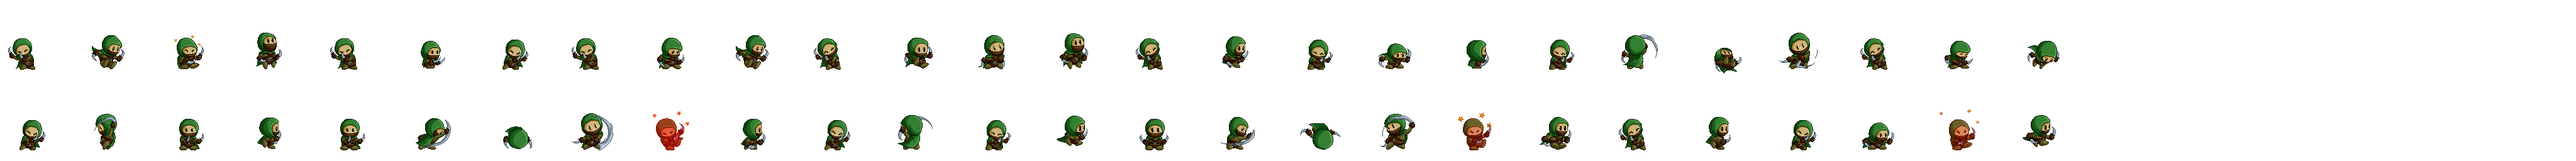
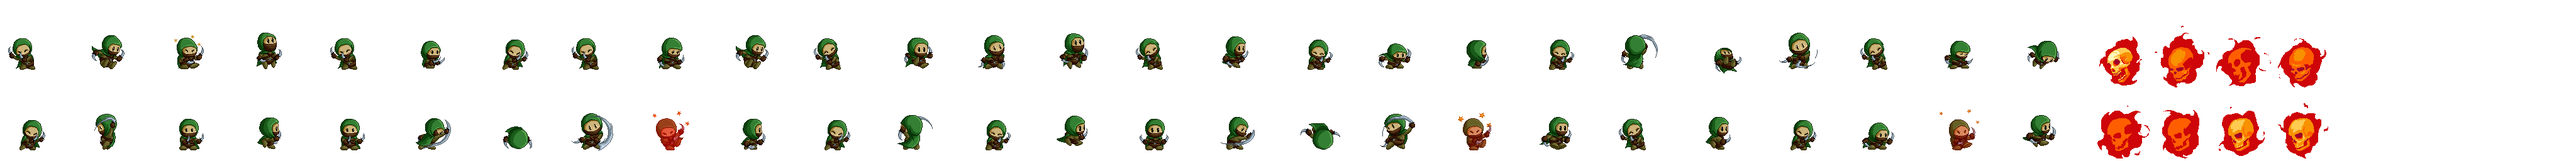
1. Added Enemies 2. Methods for Collision Detection 3. Able to detect collision between Enemy and Player 4. Able to detect collision between Enemy and Ground 5. Able to move Enemies on the ground

Changed region(s): [[0.8125, 0.6875, 0.9062, 0.9688], [0.8125, 0.2188, 0.9062, 0.5312]]

diff --git a/assets/level1/skull_enemy.tsx b/assets/level1/skull_enemy.tsx
@@ -1,0 +1,4 @@
+<?xml version="1.0" encoding="UTF-8"?>
+<tileset version="1.10" tiledversion="1.10.1" name="skull_enemy" tilewidth="96" tileheight="112" tilecount="8" columns="8">
+ <image source="environment/enemies/fire_skull.png" width="768" height="112"/>
+</tileset>

diff --git a/core/src/com/sid/characters/Player.java b/core/src/com/sid/characters/Player.java
@@ -6,6 +6,7 @@ import com.badlogic.gdx.graphics.g2d.TextureRegion;
 import com.badlogic.gdx.math.Vector2;
 import com.badlogic.gdx.physics.box2d.*;
 import com.badlogic.gdx.utils.Array;
+import com.sid.constants.CharacterBits;
 import com.sid.constants.GameConstants;
 import com.sid.screens.StartScreen;
 
@@ -16,14 +17,14 @@ public class Player extends Sprite {
     public World world;
     public Body body;
 
-    private Animation<TextureRegion> playerRun, playerJump, playerStand;
+    private Animation<TextureRegion> playerRun, playerJump, playerStand, playerAttacking;
 
     private float stateTimer;
     private boolean isRunningRight;
 
-    public Player(World world, StartScreen screen) {
+    public Player(StartScreen screen) {
         super(screen.getAtlas().findRegion("idle"));
-        this.world = world;
+        this.world = screen.getWorld();
 
         currState = State.STANDING;
         previousState = State.STANDING;
@@ -33,21 +34,25 @@ public class Player extends Sprite {
         playerRun = new Animation(0.1f, screen.getAtlas().findRegions("run"));
         playerJump = new Animation(0.1f, screen.getAtlas().findRegions("highjump"));
         playerStand = new Animation(0.1f, screen.getAtlas().findRegions("idle"));
-
+        playerAttacking = new Animation(0.1f, screen.getAtlas().findRegions("attack"));
 
         createPlayer();
         setBounds(0, 0, 102 / GameConstants.PIXELS_PER_METER, 102 / GameConstants.PIXELS_PER_METER);
+        setOriginCenter();
         setRegion(playerStand.getKeyFrame(stateTimer));
     }
 
     public void update(float deltaTime) {
-        setPosition(body.getPosition().x - getWidth() / 4, body.getPosition().y - getHeight() / 4);
+        setPosition(body.getPosition().x - getWidth() / 3, body.getPosition().y - getHeight() / 4);
         setRegion(getFrame(deltaTime));
     }
 
+
     public TextureRegion getFrame(float deltaTime) {
         currState = getState();
+
         TextureRegion region;
+
         switch (currState) {
             case JUMPING:
             case FALLING:
@@ -62,7 +67,6 @@ public class Player extends Sprite {
                 break;
         }
 
-
         if ((body.getLinearVelocity().x < 0 || !isRunningRight) && !region.isFlipX()) {
             region.flip(true, false);
             isRunningRight = false;
@@ -73,6 +77,7 @@ public class Player extends Sprite {
 
         stateTimer = currState == previousState ? stateTimer + deltaTime : 0;
         previousState = currState;
+
         return region;
     }
 
@@ -88,7 +93,6 @@ public class Player extends Sprite {
         }
     }
 
-
     private void createPlayer() {
         BodyDef bodyDef = new BodyDef();
         bodyDef.position.set(32 / GameConstants.PIXELS_PER_METER, 120 / GameConstants.PIXELS_PER_METER);
@@ -99,16 +103,28 @@ public class Player extends Sprite {
         CircleShape shape = new CircleShape();
         shape.setRadius(10 / GameConstants.PIXELS_PER_METER);
 
+        fixtureDef.filter.categoryBits = CharacterBits.PLAYER_BIT;
+        fixtureDef.filter.maskBits = CharacterBits.GROUND_BIT | CharacterBits.ENEMY_BIT;
+
         fixtureDef.shape = shape;
 
         body.createFixture(fixtureDef);
 
-
         EdgeShape leftEdge = new EdgeShape();
-        leftEdge.set(new Vector2(-2 / GameConstants.PIXELS_PER_METER, 30 / GameConstants.PIXELS_PER_METER), new Vector2(-2 / GameConstants.PIXELS_PER_METER, 30 / GameConstants.PIXELS_PER_METER));
+        leftEdge.set(new Vector2(-30 / GameConstants.PIXELS_PER_METER, -20 / GameConstants.PIXELS_PER_METER), new Vector2(-30 / GameConstants.PIXELS_PER_METER, 20 / GameConstants.PIXELS_PER_METER));
+        fixtureDef.shape = leftEdge;
         fixtureDef.isSensor = true;
 
         body.createFixture(fixtureDef).setUserData("Left");
 
+        EdgeShape rightEdge = new EdgeShape();
+        rightEdge.set(new Vector2(30 / GameConstants.PIXELS_PER_METER, -20 / GameConstants.PIXELS_PER_METER), new Vector2(30 / GameConstants.PIXELS_PER_METER, 20 / GameConstants.PIXELS_PER_METER));
+        fixtureDef.shape = rightEdge;
+        fixtureDef.isSensor = true;
+
+        body.createFixture(fixtureDef).setUserData("Right");
+
     }
+
+
 }

diff --git a/core/src/com/sid/screens/StartScreen.java b/core/src/com/sid/screens/StartScreen.java
@@ -21,7 +21,10 @@ import com.badlogic.gdx.utils.viewport.ScreenViewport;
 import com.badlogic.gdx.utils.viewport.StretchViewport;
 import com.badlogic.gdx.utils.viewport.Viewport;
 import com.sid.MainGameClass;
+import com.sid.characters.Enemy;
 import com.sid.characters.Player;
+import com.sid.characters.SkullEnemy;
+import com.sid.constants.CharacterBits;
 import com.sid.constants.GameConstants;
 import com.sid.levelcreator.ElementDetection;
 import com.sid.levelcreator.WorldContactListener;
@@ -47,7 +50,7 @@ public class StartScreen implements Screen {
     private Player player;
 
     private TextureAtlas atlas;
-
+    ElementDetection elementDetection;
     public StartScreen(MainGameClass game) {
 
         atlas = new TextureAtlas("characters/MainPlayer.atlas");
@@ -65,9 +68,11 @@ public class StartScreen implements Screen {
         world = new World(new Vector2(0, -120 / GameConstants.PIXELS_PER_METER), true);
         box2DDebugRenderer = new Box2DDebugRenderer();
 
-        new ElementDetection(world, levelMap);
+        elementDetection = new ElementDetection(this);
+        elementDetection.setCategoryFilter(CharacterBits.GROUND_BIT);
 
-        player = new Player(world, this);
+        player = new Player(this);
+
 
         world.setContactListener(new WorldContactListener());
     }
@@ -84,6 +89,11 @@ public class StartScreen implements Screen {
 
         player.update(deltaTime);
 
+        for (Enemy enemy: elementDetection.getSkullEnemyArray()){
+            enemy.update(deltaTime);
+        }
+
+
         gameCamera.position.x = player.body.getPosition().x;
 
         gameCamera.update();
@@ -92,7 +102,7 @@ public class StartScreen implements Screen {
 
     private void handleKeyboardEvents(float deltaTime) {
         if (Gdx.input.isKeyJustPressed(Input.Keys.UP) || Gdx.input.isKeyJustPressed(Input.Keys.W) || Gdx.input.isKeyJustPressed(Input.Keys.SPACE)) {
-            player.body.applyLinearImpulse(new Vector2(0,  4.0f), player.body.getWorldCenter(), true);
+            player.body.applyLinearImpulse(new Vector2(0, 4.0f), player.body.getWorldCenter(), true);
         }
 
         if ((Gdx.input.isKeyPressed(Input.Keys.RIGHT) || Gdx.input.isKeyJustPressed(Input.Keys.W)) && (player.body.getLinearVelocity().x <= 1)) {
@@ -125,6 +135,9 @@ public class StartScreen implements Screen {
 
         game.batch.begin();
         player.draw(game.batch);
+        for (Enemy enemy: elementDetection.getSkullEnemyArray()){
+            enemy.draw(game.batch);
+        }
         game.batch.end();
 
 
@@ -151,6 +164,14 @@ public class StartScreen implements Screen {
     @Override
     public void hide() {
 
+    }
+
+    public TiledMap getLevelMap() {
+        return levelMap;
+    }
+
+    public World getWorld() {
+        return world;
     }
 
     @Override

diff --git a/core/src/com/sid/characters/SkullEnemy.java b/core/src/com/sid/characters/SkullEnemy.java
@@ -1,0 +1,67 @@
+package com.sid.characters;
+
+import com.badlogic.gdx.graphics.g2d.Animation;
+import com.badlogic.gdx.graphics.g2d.TextureRegion;
+import com.badlogic.gdx.math.Vector2;
+import com.badlogic.gdx.physics.box2d.BodyDef;
+import com.badlogic.gdx.physics.box2d.CircleShape;
+import com.badlogic.gdx.physics.box2d.EdgeShape;
+import com.badlogic.gdx.physics.box2d.FixtureDef;
+import com.sid.constants.CharacterBits;
+import com.sid.constants.GameConstants;
+import com.sid.screens.StartScreen;
+
+public class SkullEnemy extends Enemy {
+
+    private float stateTime;
+    private Animation<TextureRegion> skullIdle;
+
+    public SkullEnemy(StartScreen screen, float posX, float posY) {
+        super(screen, posX, posY, new Vector2(1, 0));
+        stateTime = 0;
+        skullIdle = new Animation(0.1f, screen.getAtlas().findRegions("skull"));
+        setBounds(getX(), getY(), 48 / GameConstants.PIXELS_PER_METER, 48 / GameConstants.PIXELS_PER_METER);
+        setRegion(skullIdle.getKeyFrame(stateTime, true));
+    }
+
+    public void update(float deltaTime) {
+        stateTime += deltaTime;
+        setPosition(body.getPosition().x - getWidth() / 2, body.getPosition().y - getHeight() / 4);
+        setRegion(skullIdle.getKeyFrame(stateTime, true));
+
+        body.setLinearVelocity(speed);
+    }
+
+    @Override
+    protected void createEnemy() {
+        BodyDef bodyDef = new BodyDef();
+        bodyDef.position.set(getX(), getY());
+        bodyDef.type = BodyDef.BodyType.DynamicBody;
+        body = world.createBody(bodyDef);
+
+        FixtureDef fixtureDef = new FixtureDef();
+        CircleShape shape = new CircleShape();
+        shape.setRadius(10 / GameConstants.PIXELS_PER_METER);
+
+        fixtureDef.filter.categoryBits = CharacterBits.ENEMY_BIT;
+        fixtureDef.filter.maskBits = CharacterBits.GROUND_BIT | CharacterBits.PLAYER_BIT;
+
+        fixtureDef.shape = shape;
+
+        body.createFixture(fixtureDef).setUserData(this);
+
+        EdgeShape leftEdge = new EdgeShape();
+        leftEdge.set(new Vector2(-30 / GameConstants.PIXELS_PER_METER, -20 / GameConstants.PIXELS_PER_METER), new Vector2(-30 / GameConstants.PIXELS_PER_METER, 20 / GameConstants.PIXELS_PER_METER));
+        fixtureDef.shape = leftEdge;
+        fixtureDef.isSensor = true;
+
+        body.createFixture(fixtureDef).setUserData(this);
+
+        EdgeShape rightEdge = new EdgeShape();
+        rightEdge.set(new Vector2(30 / GameConstants.PIXELS_PER_METER, -20 / GameConstants.PIXELS_PER_METER), new Vector2(30 / GameConstants.PIXELS_PER_METER, 20 / GameConstants.PIXELS_PER_METER));
+        fixtureDef.shape = rightEdge;
+        fixtureDef.isSensor = true;
+
+        body.createFixture(fixtureDef).setUserData(this);
+    }
+}

diff --git a/core/src/com/sid/levelcreator/ElementDetection.java b/core/src/com/sid/levelcreator/ElementDetection.java
@@ -5,23 +5,47 @@ import com.badlogic.gdx.maps.objects.RectangleMapObject;
 import com.badlogic.gdx.maps.tiled.TiledMap;
 import com.badlogic.gdx.math.Rectangle;
 import com.badlogic.gdx.physics.box2d.*;
+import com.badlogic.gdx.utils.Array;
+import com.sid.characters.SkullEnemy;
+import com.sid.constants.CharacterBits;
 import com.sid.constants.GameConstants;
+import com.sid.screens.StartScreen;
 
 public class ElementDetection {
-    public ElementDetection(World world, TiledMap map) {
+    private Fixture fixture;
+    private Array<SkullEnemy> skullEnemyArray;
+
+    public ElementDetection(StartScreen startScreen) {
         BodyDef bodyDef = new BodyDef();
         PolygonShape shape = new PolygonShape();
         FixtureDef fixtureDef = new FixtureDef();
         Body body;
 
-        for (MapObject object : map.getLayers().get(4).getObjects().getByType(RectangleMapObject.class)) {
+        for (MapObject object : startScreen.getLevelMap().getLayers().get(4).getObjects().getByType(RectangleMapObject.class)) {
             Rectangle rectangle = ((RectangleMapObject) object).getRectangle();
             bodyDef.type = BodyDef.BodyType.StaticBody;
             bodyDef.position.set((rectangle.getX() + rectangle.getWidth() / 2) / GameConstants.PIXELS_PER_METER, (rectangle.getY() + rectangle.getHeight() / 2) / GameConstants.PIXELS_PER_METER);
-            body = world.createBody(bodyDef);
+            body = startScreen.getWorld().createBody(bodyDef);
             shape.setAsBox((rectangle.getWidth() / 2) / GameConstants.PIXELS_PER_METER, (rectangle.getHeight() / 2) / GameConstants.PIXELS_PER_METER);
             fixtureDef.shape = shape;
-            body.createFixture(fixtureDef);
+            fixture = body.createFixture(fixtureDef);
         }
+
+        skullEnemyArray = new Array<SkullEnemy>();
+        for (MapObject object : startScreen.getLevelMap().getLayers().get(5).getObjects().getByType(RectangleMapObject.class)) {
+            Rectangle rectangle = ((RectangleMapObject) object).getRectangle();
+            skullEnemyArray.add(new SkullEnemy(startScreen, rectangle.getX() / GameConstants.PIXELS_PER_METER, rectangle.getY() / GameConstants.PIXELS_PER_METER));
+        }
+
+    }
+
+    public void setCategoryFilter(short bit) {
+        Filter filter = new Filter();
+        filter.categoryBits = bit;
+        fixture.setFilterData(filter);
+    }
+
+    public Array<SkullEnemy> getSkullEnemyArray() {
+        return skullEnemyArray;
     }
 }

diff --git a/core/src/com/sid/levelcreator/WorldContactListener.java b/core/src/com/sid/levelcreator/WorldContactListener.java
@@ -1,13 +1,32 @@
 package com.sid.levelcreator;
 
-import com.badlogic.gdx.physics.box2d.Contact;
-import com.badlogic.gdx.physics.box2d.ContactImpulse;
-import com.badlogic.gdx.physics.box2d.ContactListener;
-import com.badlogic.gdx.physics.box2d.Manifold;
+import com.badlogic.gdx.Gdx;
+import com.badlogic.gdx.physics.box2d.*;
+import com.sid.characters.Enemy;
+import com.sid.constants.CharacterBits;
+import jdk.jpackage.internal.Log;
 
 public class WorldContactListener implements ContactListener {
     @Override
     public void beginContact(Contact contact) {
+        Fixture fixtureA = contact.getFixtureA();
+        Fixture fixtureB = contact.getFixtureB();
+
+        int categoryBits = fixtureA.getFilterData().categoryBits | fixtureB.getFilterData().categoryBits;
+
+        System.out.println(categoryBits);
+        switch (categoryBits) {
+            case CharacterBits.ENEMY_BIT | CharacterBits.GROUND_BIT:
+                if (fixtureA.getFilterData().categoryBits == CharacterBits.ENEMY_BIT) {
+                    ((Enemy) fixtureA.getUserData()).reverseSpeed(true, false);
+                } else {
+                    ((Enemy) fixtureB.getUserData()).reverseSpeed(true, false);
+                }
+                break;
+            case CharacterBits.PLAYER_BIT | CharacterBits.ENEMY_BIT:
+                System.out.println("DIEEEE!!");
+                break;
+        }
 
     }
 

diff --git a/core/src/com/sid/characters/Enemy.java b/core/src/com/sid/characters/Enemy.java
@@ -1,0 +1,38 @@
+package com.sid.characters;
+
+import com.badlogic.gdx.graphics.g2d.Sprite;
+import com.badlogic.gdx.math.Vector2;
+import com.badlogic.gdx.physics.box2d.Body;
+import com.badlogic.gdx.physics.box2d.World;
+import com.sid.screens.StartScreen;
+
+public abstract class Enemy extends Sprite {
+    protected World world;
+    protected StartScreen screen;
+    public Body body;
+
+    public Vector2 speed;
+
+    public Enemy(StartScreen screen, float posX, float posY, Vector2 speed) {
+        this.world = screen.getWorld();
+        this.screen = screen;
+        setPosition(posX, posY);
+        createEnemy();
+        this.speed = speed;
+    }
+
+    protected abstract void createEnemy();
+
+    public void reverseSpeed(boolean x, boolean y) {
+        if (x) {
+            speed.x = -speed.x;
+        }
+
+        if (y) {
+            speed.y = -speed.y;
+        }
+
+    }
+
+    public abstract void update(float deltaTime);
+}

diff --git a/core/src/com/sid/constants/CharacterBits.java b/core/src/com/sid/constants/CharacterBits.java
@@ -1,0 +1,7 @@
+package com.sid.constants;
+
+public class CharacterBits {
+    public static final short GROUND_BIT = 1;
+    public static final short PLAYER_BIT = 2;
+    public static final short ENEMY_BIT = 4;
+}
